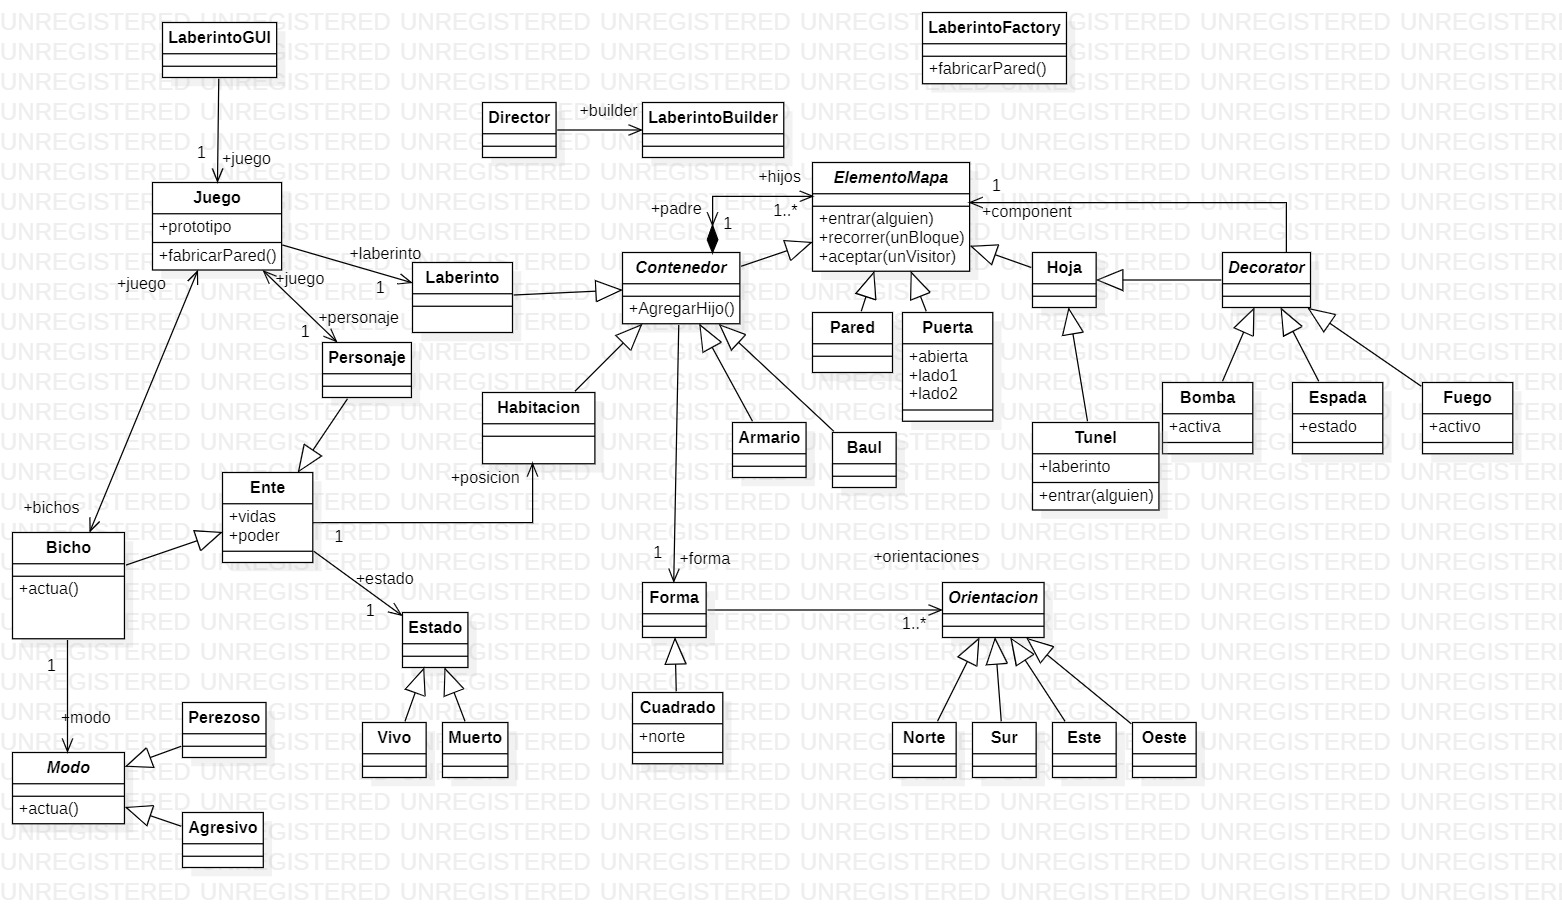
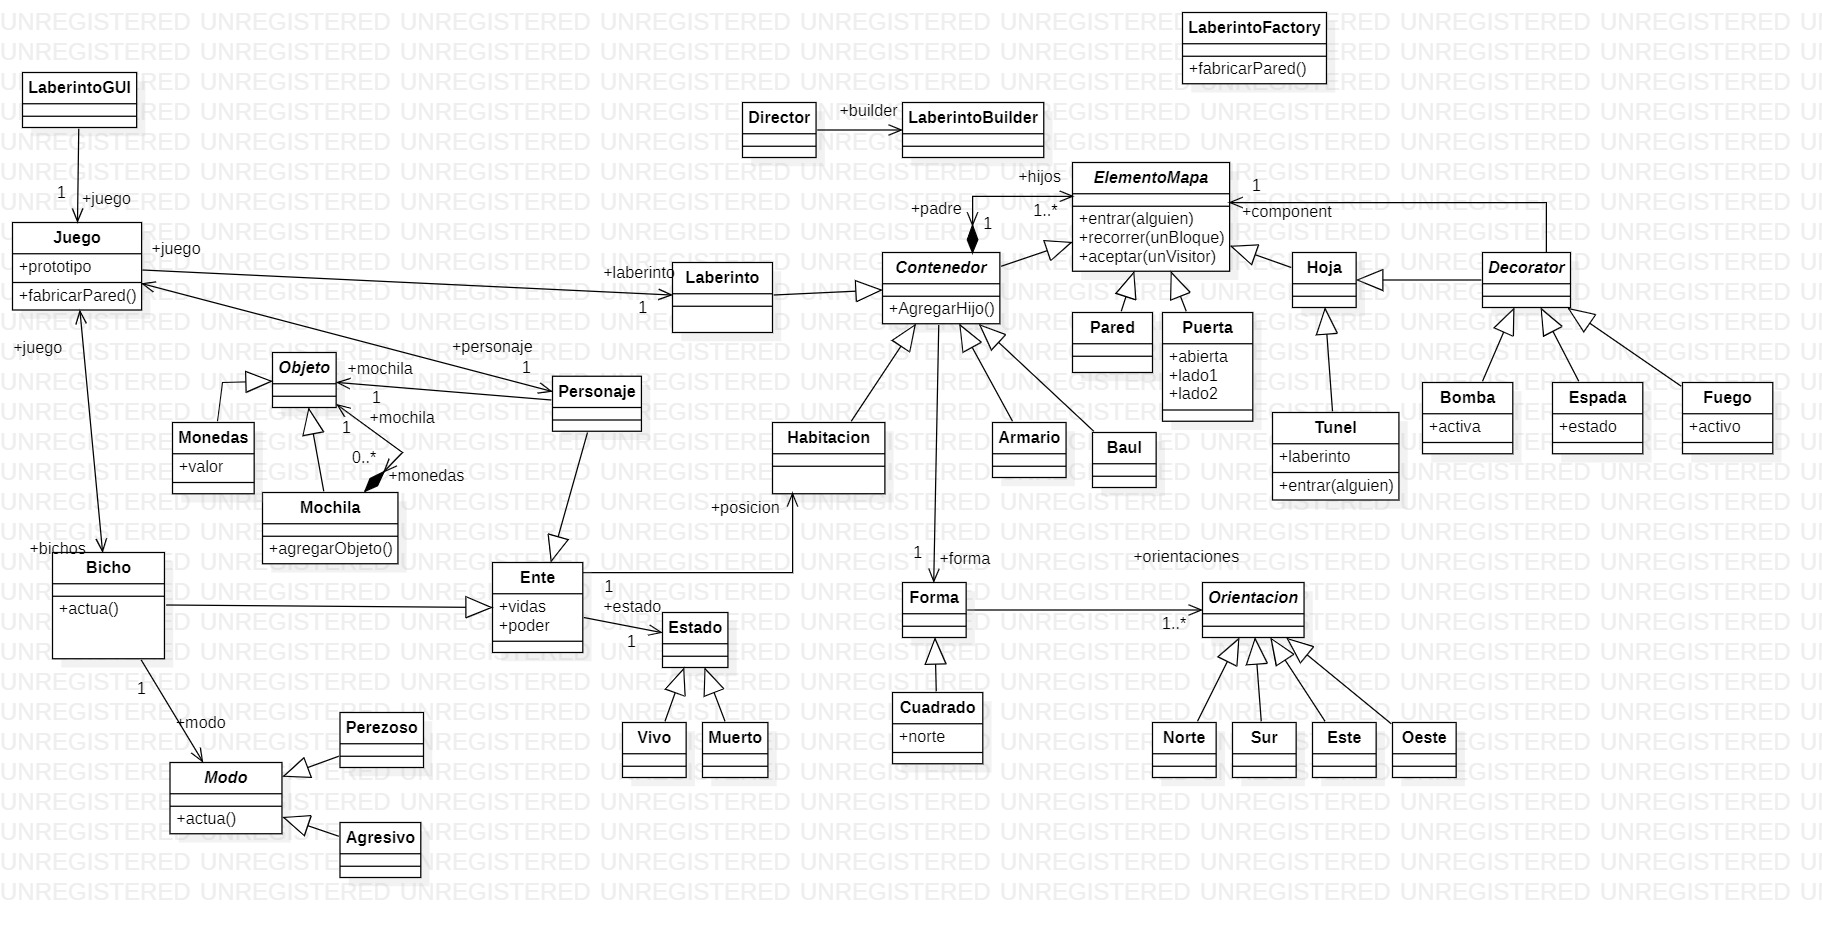
Cambios en la interfaz gráfica y adaptación de flyweight con composite y singleton

diff --git a/LaberintoGUI.py b/LaberintoGUI.py
@@ -96,53 +96,68 @@ class LaberintoGUI():
         mirando_izquierda = False
         
 
-        
+        abrir = False
         while running:
+            keys = pygame.key.get_pressed()
             for event in pygame.event.get():
                 if event.type == pygame.QUIT:
                     pygame.quit()
                     exit()
+                if keys[pygame.K_SPACE]:
+                    if not abrir:
+                        abrir = True
+                        self.juego.abrirPuertas()
+                        pygame.display.flip()
+                    else:
+                        abrir = False
+                        self.juego.cerrarPuertas()
+                        pygame.display.flip()        
 
             
-            keys = pygame.key.get_pressed()
-            if keys[pygame.K_ESCAPE]:
+            if keys[pygame.K_LSHIFT]:
                 shift = 2
             else:
                 shift = 0
 
-            if keys[pygame.K_LEFT]:
+            if keys[pygame.K_LEFT] or keys[pygame.K_a]:
                 self.screen.blit(personaje,(pX,pY))
                 for hijo in self.juego.laberinto.hijos:
                     self.dibujarContenedorRectangularEscala(hijo.forma, 1)
+                    self.ocultar()
                 pX -= (2 + shift)
                 #voltear 
                 if not mirando_izquierda:
                     mirando_izquierda = True
                     personaje = pygame.transform.flip(personaje,True,False)
                 self.screen.blit(personaje,(pX,pY))
-            if keys[pygame.K_RIGHT]:
+            if keys[pygame.K_RIGHT] or keys[pygame.K_d]:
                 self.screen.blit(personaje,(pX,pY))
                 for hijo in self.juego.laberinto.hijos:
                     self.dibujarContenedorRectangularEscala(hijo.forma, 1)
+                    self.ocultar()
                 pX += (2 +shift)
                 #voltear
                 if mirando_izquierda:
                     mirando_izquierda = False
                     personaje = pygame.transform.flip(personaje,True,False)
                 self.screen.blit(personaje,(pX,pY))
-            if keys[pygame.K_UP]:
+            if keys[pygame.K_UP] or keys[pygame.K_w]:
                 self.screen.blit(personaje,(pX,pY))
                 for hijo in self.juego.laberinto.hijos:
                     self.dibujarContenedorRectangularEscala(hijo.forma, 1)
+                    self.ocultar()
                 pY -= (2 + shift)
                 self.screen.blit(personaje,(pX,pY))
-            if keys[pygame.K_DOWN]:
+            if keys[pygame.K_DOWN] or keys[pygame.K_s]:
                 self.screen.blit(personaje,(pX,pY))
                 for hijo in self.juego.laberinto.hijos:
                     self.dibujarContenedorRectangularEscala(hijo.forma, 1)
+                    self.ocultar()
+                self.juego.personaje.irAlSur()
                 pY += (2 + shift)
                 self.screen.blit(personaje,(pX,pY))
             
+        
             self.screen.blit(personaje,(pX,pY))
         
             pygame.display.update()
@@ -161,9 +176,7 @@ class LaberintoGUI():
             return self
         
         self.juego.laberinto.aceptar(self)
-        ocultar = pygame.Surface((11,self.height-60))
-        ocultar.fill((50,50,50))
-        self.screen.blit(ocultar,(1140,50))
+        self.ocultar()
 
         self.mostrarVidasPersonaje()
 
@@ -173,21 +186,12 @@ class LaberintoGUI():
         self.juego.agregarPersonaje(personaje)
         self.person = self.juego.personaje
         self.vidasM = self.person.vidas
-       
-    
-    def dibujarPersonaje(self,pX,pY):
-        if pX == 0 and pY == 0:
-            pX = self.origenX + (self.ancho/2) - (30/2)
-            pY = self.origenY + (self.alto/2) - (30/2)
       
-        
-        
+    def ocultar(self):
+        ocultar = pygame.Surface((11,self.height-60))
+        ocultar.fill((50,50,50))
+        self.screen.blit(ocultar,(1140,50))
 
-        
-       
-        
-        
-        
     def mostrarVidasPersonaje(self):
         if self.vidasM == None:
             return None
@@ -196,7 +200,6 @@ class LaberintoGUI():
         text = miFuente.render("Vidas: "+str(self.person.vidas),True,(255,0,0))
         rectText = text.get_rect()
         rectText.center = (80,30)
-        pygame.draw.rect(self.screen,(0,0,0),rectText,2)
         self.screen.blit(text,rectText)
         pygame.display.update()
 
@@ -244,6 +247,8 @@ class LaberintoGUI():
        unaForma.extentY = alto
      
        
+      
+       
        
     #    rect =pygame.Rect(unPuntoX,unPuntoY,ancho,alto)
     #    pygame.draw.rect(self.screen,(255,0,0),rect)
@@ -264,15 +269,53 @@ class LaberintoGUI():
        
        pygame.draw.rect(rect,(0,0,0),rect.get_rect(),2)
        self.screen.blit(rect,(unPuntoX,unPuntoY))        
-       
+       self.dibujarPared(unaForma,unPuntoX,unPuntoY,ancho,alto)
+       self.dibujarPuerta(unaForma,unPuntoX,unPuntoY,ancho,alto)
     
-        
-    # def dibujarPared(self,unaOrientacion):
-    #     pared = pygame.Surface((self.ancho,100))
-    #     pared.fill((255,0,0))
-    #     pygame.draw.rect(pared,(0,0,0),pared.get_rect(),3)
-    #     self.screen.blit(pared,(0,0))
-    #     pygame.display.update()
+    def dibujarPared(self,unaForma,unPuntoX,unPuntoY,ancho,alto):
+       if unaForma.norte.esPared():
+            pared = pygame.image.load("graphics/paredNorte.png").convert_alpha()
+            for x in range(0,int(ancho),21):
+                    self.screen.blit(pared,(unPuntoX+x,unPuntoY))
+       if unaForma.sur.esPared():
+            pared = pygame.image.load("graphics/paredSur.png").convert_alpha()
+            for x in range(0,int(ancho),21):
+                    self.screen.blit(pared,(unPuntoX+x,unPuntoY+alto-4))
+       if unaForma.este.esPared():
+            pared = pygame.image.load("graphics/paredEste.png").convert_alpha()
+            for y in range(0,int(alto)-21,21):
+                    self.screen.blit(pared,(unPuntoX+ancho-11,unPuntoY+y))
+       if unaForma.oeste.esPared():
+            pared = pygame.image.load("graphics/paredOeste.png").convert_alpha()
+            for y in range(0,int(alto)-21,21):
+                self.screen.blit(pared,(unPuntoX,unPuntoY+y))
+
+    def dibujarPuerta(self,unaForma,unPuntoX,unPuntoY,ancho,alto):
+       if unaForma.norte.esPuerta():
+            if unaForma.norte.abierta:
+                puertaNorte = pygame.image.load("graphics/puertaNorteAbierta.png").convert_alpha()
+            else:
+                puertaNorte = pygame.image.load("graphics/puertaNorte.png").convert_alpha()
+            # colocar la puerta en el medio del ancho de la habitacion
+            
+            puertaNorte = pygame.transform.scale(puertaNorte,(128,64))
+            self.screen.blit(puertaNorte,(unPuntoX+ancho/2-60,unPuntoY-64))
+       if unaForma.oeste.esPuerta():
+            if unaForma.oeste.abierta:
+                puertaOeste = pygame.image.load("graphics/puertaOesteAbierta.png").convert_alpha()
+
+            else:
+                puertaOeste = pygame.image.load("graphics/puertaOeste.png").convert_alpha()
+            
+            pared1 = pygame.image.load("graphics/paredOeste.png").convert_alpha()
+            for y in range(0,(int(unPuntoX/2)-198),22):
+                self.screen.blit(pared1,(unPuntoX,unPuntoY+y))
+                self.screen.blit(pared1,(unPuntoX,unPuntoY+alto-y-22))
+
+            puertaOeste = pygame.transform.scale(puertaOeste,(12,128))
+            self.screen.blit(puertaOeste,(unPuntoX,unPuntoY+alto/2-60))
+           
+    
 
 vista = LaberintoGUI()
 vista.iniciarJuego()

diff --git a/Playground.py b/Playground.py
@@ -60,14 +60,14 @@ while True:
     while True:
         if activado:
             if abierto:
-                operacion = input("¿Qué quieres hacer?\n1. Desactivar Bombas\n2. Cerrar Puertas\n3. Lanzar Bichos\n4. Terminar Bichos\n5. Añadir personaje\n6. Entrar en tunel\n7. Salir\n")
+                operacion = input("¿Qué quieres hacer?\n1. Desactivar Bombas\n2. Cerrar Puertas\n3. Lanzar Bichos\n4. Terminar Bichos\n5. Añadir personaje\n6. Entrar en tunel\n7. Añadir monedas a la mochila\n8. Quitar monedas de la mochila\n9. Salir")
             else:
-                operacion = input("¿Qué quieres hacer?\n1. Desactivar Bombas\n2. Abrir Puertas\n3. Lanzar Bichos\n4. Terminar Bichos\n5. Añadir personaje\n6. Entrar en tunel\n7. Salir\n")
+                operacion = input("¿Qué quieres hacer?\n1. Desactivar Bombas\n2. Abrir Puertas\n3. Lanzar Bichos\n4. Terminar Bichos\n5. Añadir personaje\n6. Entrar en tunel\n7. Añadir monedas a la mochila\n8. Quitar monedas de la mochila\n9. Salir")
         else:
             if abierto:
-                operacion = input("¿Qué quieres hacer?\n1. Activar Bombas\n2. Cerrar Puertas\n3. Lanzar Bichos\n4. Terminar Bichos\n5. Añadir personaje\n6. Entrar en tunel\n7. Salir\n")
+                operacion = input("¿Qué quieres hacer?\n1. Activar Bombas\n2. Cerrar Puertas\n3. Lanzar Bichos\n4. Terminar Bichos\n5. Añadir personaje\n6. Entrar en tunel\n7. Añadir monedas a la mochila\n8. Quitar monedas de la mochila\n9. Salir\n")
             else:
-                operacion = input("¿Qué quieres hacer?\n1. Activar Bombas\n2. Abrir Puertas\n3. Lanzar Bichos\n4. Terminar Bichos\n5. Añadir personaje\n6. Entrar en tunel\n7. Salir\n")
+                operacion = input("¿Qué quieres hacer?\n1. Activar Bombas\n2. Abrir Puertas\n3. Lanzar Bichos\n4. Terminar Bichos\n5. Añadir personaje\n6. Entrar en tunel\n7. Añadir monedas a la mochila\n8. Quitar monedas de la mochila\n9. Salir\n")
 
         try:
             operacion = int(operacion)
@@ -113,15 +113,63 @@ while True:
                 if juego.personaje == None:
                     print("No hay ningun personaje en el laberinto")
                 else:
+                    
                     #Prueba de movimiento
-                    juego.personaje.irAlSur()
+                    #juego.personaje.irAlSur()
                     #TODO: Entrar a tunel BIEN HECHO (Esto solo para prueba)
-                    #juego.laberinto.hijos[0].hijos[0].entrar(personaje)
+                    juego.laberinto.hijos[0].hijos[1].entrar(personaje)
                 print(juego)
-                juego
+               
             
             elif operacion == 7:
-                break
+                if juego.personaje != None:
+                    print("¿Que monedas quieres añadir a la mochila de ",personaje.nickname,'?')
+                    kindOfCoin = input("1. Moneda de 1\n2. Moneda de 2\n3. Moneda de 5\n4. Moneda de 10\n")
+                    kindOfCoin = int(kindOfCoin)
+                    if kindOfCoin == 1:
+                        moneda1 = juego.fabricarMoneda(1)
+                        personaje.agregarObjeto(moneda1)
+                        personaje.abrirMochila()
+                    elif kindOfCoin == 2:
+                        moneda2 = juego.fabricarMoneda(2)
+                        personaje.agregarObjeto(moneda2)
+                        personaje.abrirMochila()
+                    elif kindOfCoin == 3:
+                        moneda5 = juego.fabricarMoneda(5)
+                        personaje.agregarObjeto(moneda5)
+                        personaje.abrirMochila()
+                    elif kindOfCoin == 4:
+                        moneda10 = juego.fabricarMoneda(10)
+                        personaje.agregarObjeto(moneda10)
+                        personaje.abrirMochila()
+                    else:
+                        print("\n\nOpción no válida.\n\n")
+                else:
+                    print("No hay ningun personaje en el laberinto")
+
+            elif operacion == 8:
+                if juego.personaje != None:
+                    print("¿Que monedas quieres añadir a la mochila de ",personaje.nickname,'?')
+                    kindOfCoin = input("1. Moneda de 1\n2. Moneda de 2\n3. Moneda de 5\n4. Moneda de 10\n")
+                    kindOfCoin = int(kindOfCoin)
+                    if kindOfCoin == 1:
+                        personaje.quitarObjeto(moneda1)
+                        personaje.abrirMochila()
+                    elif kindOfCoin == 2:
+                        personaje.quitarObjeto(moneda2)
+                        personaje.abrirMochila()
+                    elif kindOfCoin == 3:
+                        personaje.quitarObjeto(moneda5)
+                        personaje.abrirMochila()
+                    elif kindOfCoin == 4:
+                        personaje.quitarObjeto(moneda10)
+                        personaje.abrirMochila()
+                    else:
+                        print("\n\nOpción no válida.\n\n")
+                else:
+                    print("No hay ningun personaje en el laberinto")    
+            elif operacion == 9:
+               break;
             else:
                 print("\n\nOpción no válida.\n\n")
         except ValueError:

diff --git a/Model/Personaje.py b/Model/Personaje.py
@@ -1,10 +1,21 @@
 from model.Ente import Ente
+from model.Mochila import Mochila
 from model.Muerto import Muerto
 
 class Personaje(Ente):
     def __init__(self):
         super().__init__()
         self.nickname = None
+        self.mochila = Mochila()
+
+    def agregarObjeto(self,objeto):
+        self.mochila.agregarObjeto(objeto)
+    
+    def quitarObjeto(self,objeto):
+        self.mochila.quitarObjeto(objeto)
+
+    def abrirMochila(self):
+        self.mochila.abrirMochila()
     
     def heMuerto(self):
         self.estado = Muerto()
@@ -14,4 +25,4 @@ class Personaje(Ente):
         return self.juego.buscarBicho()
     
     def __str__(self):
-        return f"\n\t Nickname: {self.nickname}\n\t Vidas: {self.vidas}\n\t Poder: {self.poder}\n\t Posicion:[\n\t{self.posicion}]\n\t " 
+        return f"\n\t Nickname: {self.nickname}\n\t Vidas: {self.vidas}\n\t Poder: {self.poder}\n\t Posicion:[\n\t{self.posicion}]\n\t {self.mochila}" 

diff --git a/Model/Mochila.py b/Model/Mochila.py
@@ -1,0 +1,29 @@
+from model.Objeto import Objeto
+
+
+class Mochila(Objeto):
+    def __init__(self):
+        #Aproximación de flyweight para reducir el uso de memoria
+        self.objetos = []
+
+    def agregarObjeto(self, objeto):
+        if objeto not in self.objetos:
+            objeto.mochila = self
+            self.objetos.append(objeto)
+
+    def quitarObjeto(self, objeto):
+        if objeto in self.objetos:
+            objeto.contador -= 1
+            if objeto.contador == 0:
+                self.objetos.remove(objeto)
+
+    def abrirMochila(self):
+        print("Abriendo mochila...")
+        for objeto in self.objetos:
+            objeto.usarObjeto()
+        
+
+    def __str__(self):
+        if len(self.objetos) == 0:
+            return "Mochila vacía"
+        return f"Mochila: [{self.objetos}]"

diff --git a/Model/Moneda.py b/Model/Moneda.py
@@ -1,0 +1,25 @@
+from model.Objeto import Objeto
+
+
+class Moneda(Objeto):
+    # Aproximación de flyweight para reducir el uso de memoria y evitar la creación de objetos innecesarios 
+    instanciasMonedas = {}
+    def __new__(cls, valor):
+        if valor not in cls.instanciasMonedas:
+            cls.instanciasMonedas[valor] = super().__new__(cls)
+            cls.instanciasMonedas[valor].contador = 1
+        else:
+            cls.instanciasMonedas[valor].contador += 1
+        return cls.instanciasMonedas[valor]
+
+    def __init__(self, valor):
+        self.valor = valor
+
+    def usarObjeto(self):
+        print(self)
+
+    def __str__(self):
+        return f"Moneda: {self.valor} x{self.contador}"
+    
+    def __repr__(self):
+        return f"Moneda: {self.valor} x{self.contador}"

diff --git a/Model/Juego.py b/Model/Juego.py
@@ -14,6 +14,7 @@ from model.Este import Este
 from model.Baul import Baul
 from model.Espada import Espada
 from model.Fuego import Fuego
+from model.Moneda import Moneda
 from model.Norte import Norte
 from model.Oeste import Oeste
 from model.Perezoso import Perezoso
@@ -257,6 +258,9 @@ class Juego:
     
     def fabricarModoPerezoso(self):
         return Perezoso()
+    
+    def fabricarMoneda(self,valor):
+        return Moneda(valor)
    
     def fabricarNorte(self):
         return Norte()

diff --git a/Model/Objeto.py b/Model/Objeto.py
@@ -1,0 +1,9 @@
+from abc import ABC
+
+
+class Objeto(ABC):
+    def __init__(self):
+        self.mochila = None
+        
+    def usarObjeto(self):
+        pass
